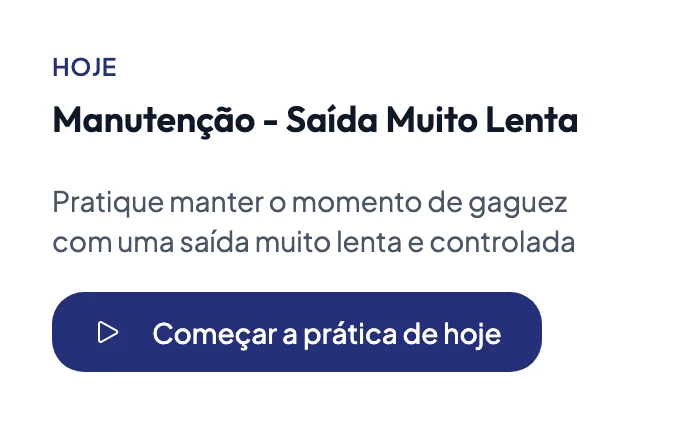
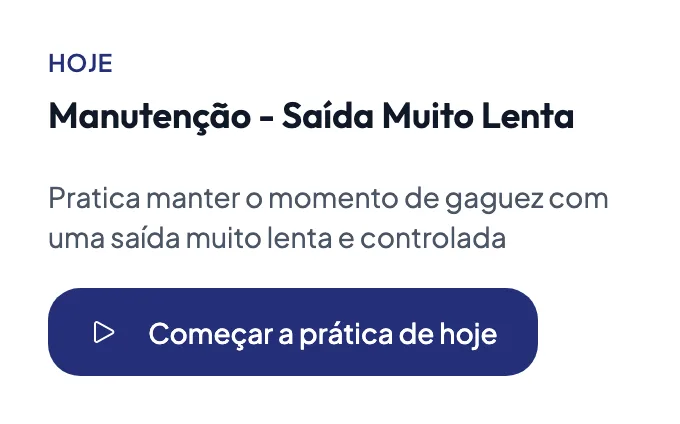
fix(patients): pt and es phone screens in the app's own language, pt card in the tu register
The hero recorder and the gallery phones on the pt and es pages were the English captures. They are now captured from the app in pt and es on the same demo state, so the exercise chip agrees with the cards beside it. The pt card is recaptured against the backend copy that addresses the patient as tu, so it reads Pratica rather than Pratique.

diff --git a/src/i18n/localized-assets.generated.ts b/src/i18n/localized-assets.generated.ts
@@ -18,8 +18,12 @@ export const LOCALIZED_ASSETS: ReadonlySet<string> = new Set([
   "es|/screenshots/mobile/caregiver-today-crop.webp",
   "es|/screenshots/mobile/child-practice.webp",
   "es|/screenshots/mobile/patient-home-device.webp",
+  "es|/screenshots/mobile/patient-home-screen.webp",
   "es|/screenshots/mobile/patient-journey-device.webp",
+  "es|/screenshots/mobile/patient-journey-screen.webp",
   "es|/screenshots/mobile/patient-practice-device.webp",
+  "es|/screenshots/mobile/patient-practice-screen.webp",
+  "es|/screenshots/mobile/patient-record.webp",
   "pt|/screenshots/app/cbsa-severity-trend.png",
   "pt|/screenshots/app/client-dashboard.png",
   "pt|/screenshots/app/therapist-dashboard.png",
@@ -34,6 +38,10 @@ export const LOCALIZED_ASSETS: ReadonlySet<string> = new Set([
   "pt|/screenshots/mobile/caregiver-today-crop.webp",
   "pt|/screenshots/mobile/child-practice.webp",
   "pt|/screenshots/mobile/patient-home-device.webp",
+  "pt|/screenshots/mobile/patient-home-screen.webp",
   "pt|/screenshots/mobile/patient-journey-device.webp",
+  "pt|/screenshots/mobile/patient-journey-screen.webp",
   "pt|/screenshots/mobile/patient-practice-device.webp",
+  "pt|/screenshots/mobile/patient-practice-screen.webp",
+  "pt|/screenshots/mobile/patient-record.webp",
 ]);
